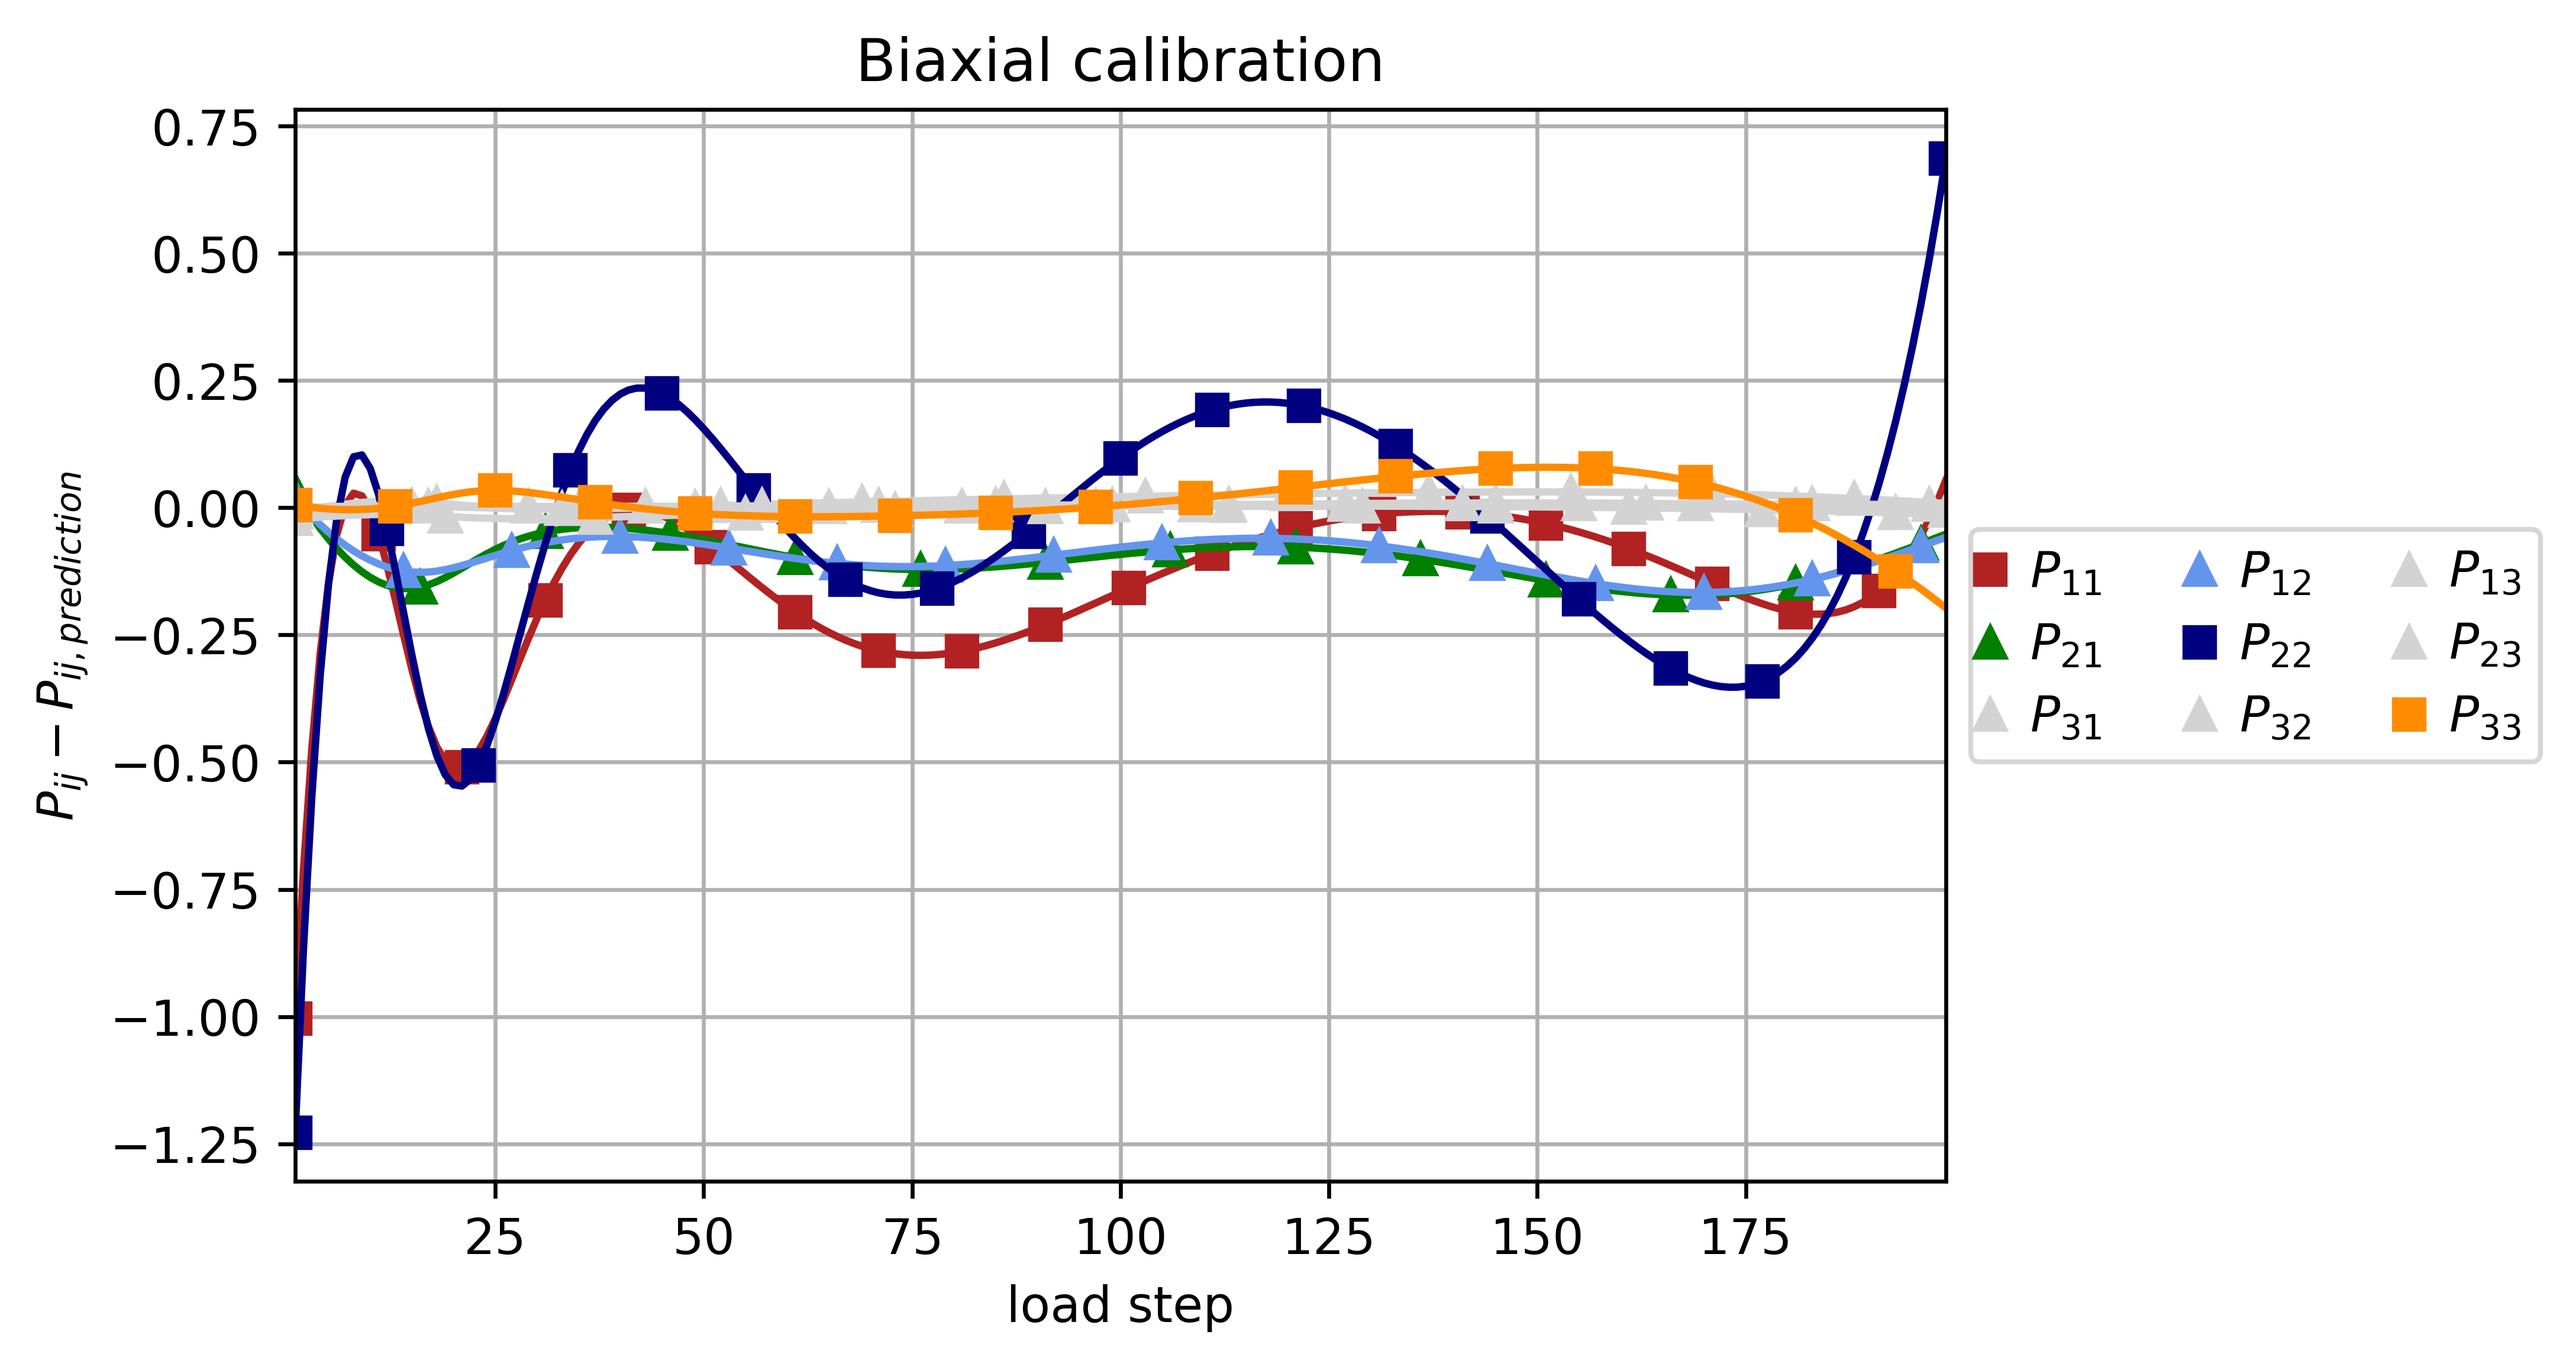
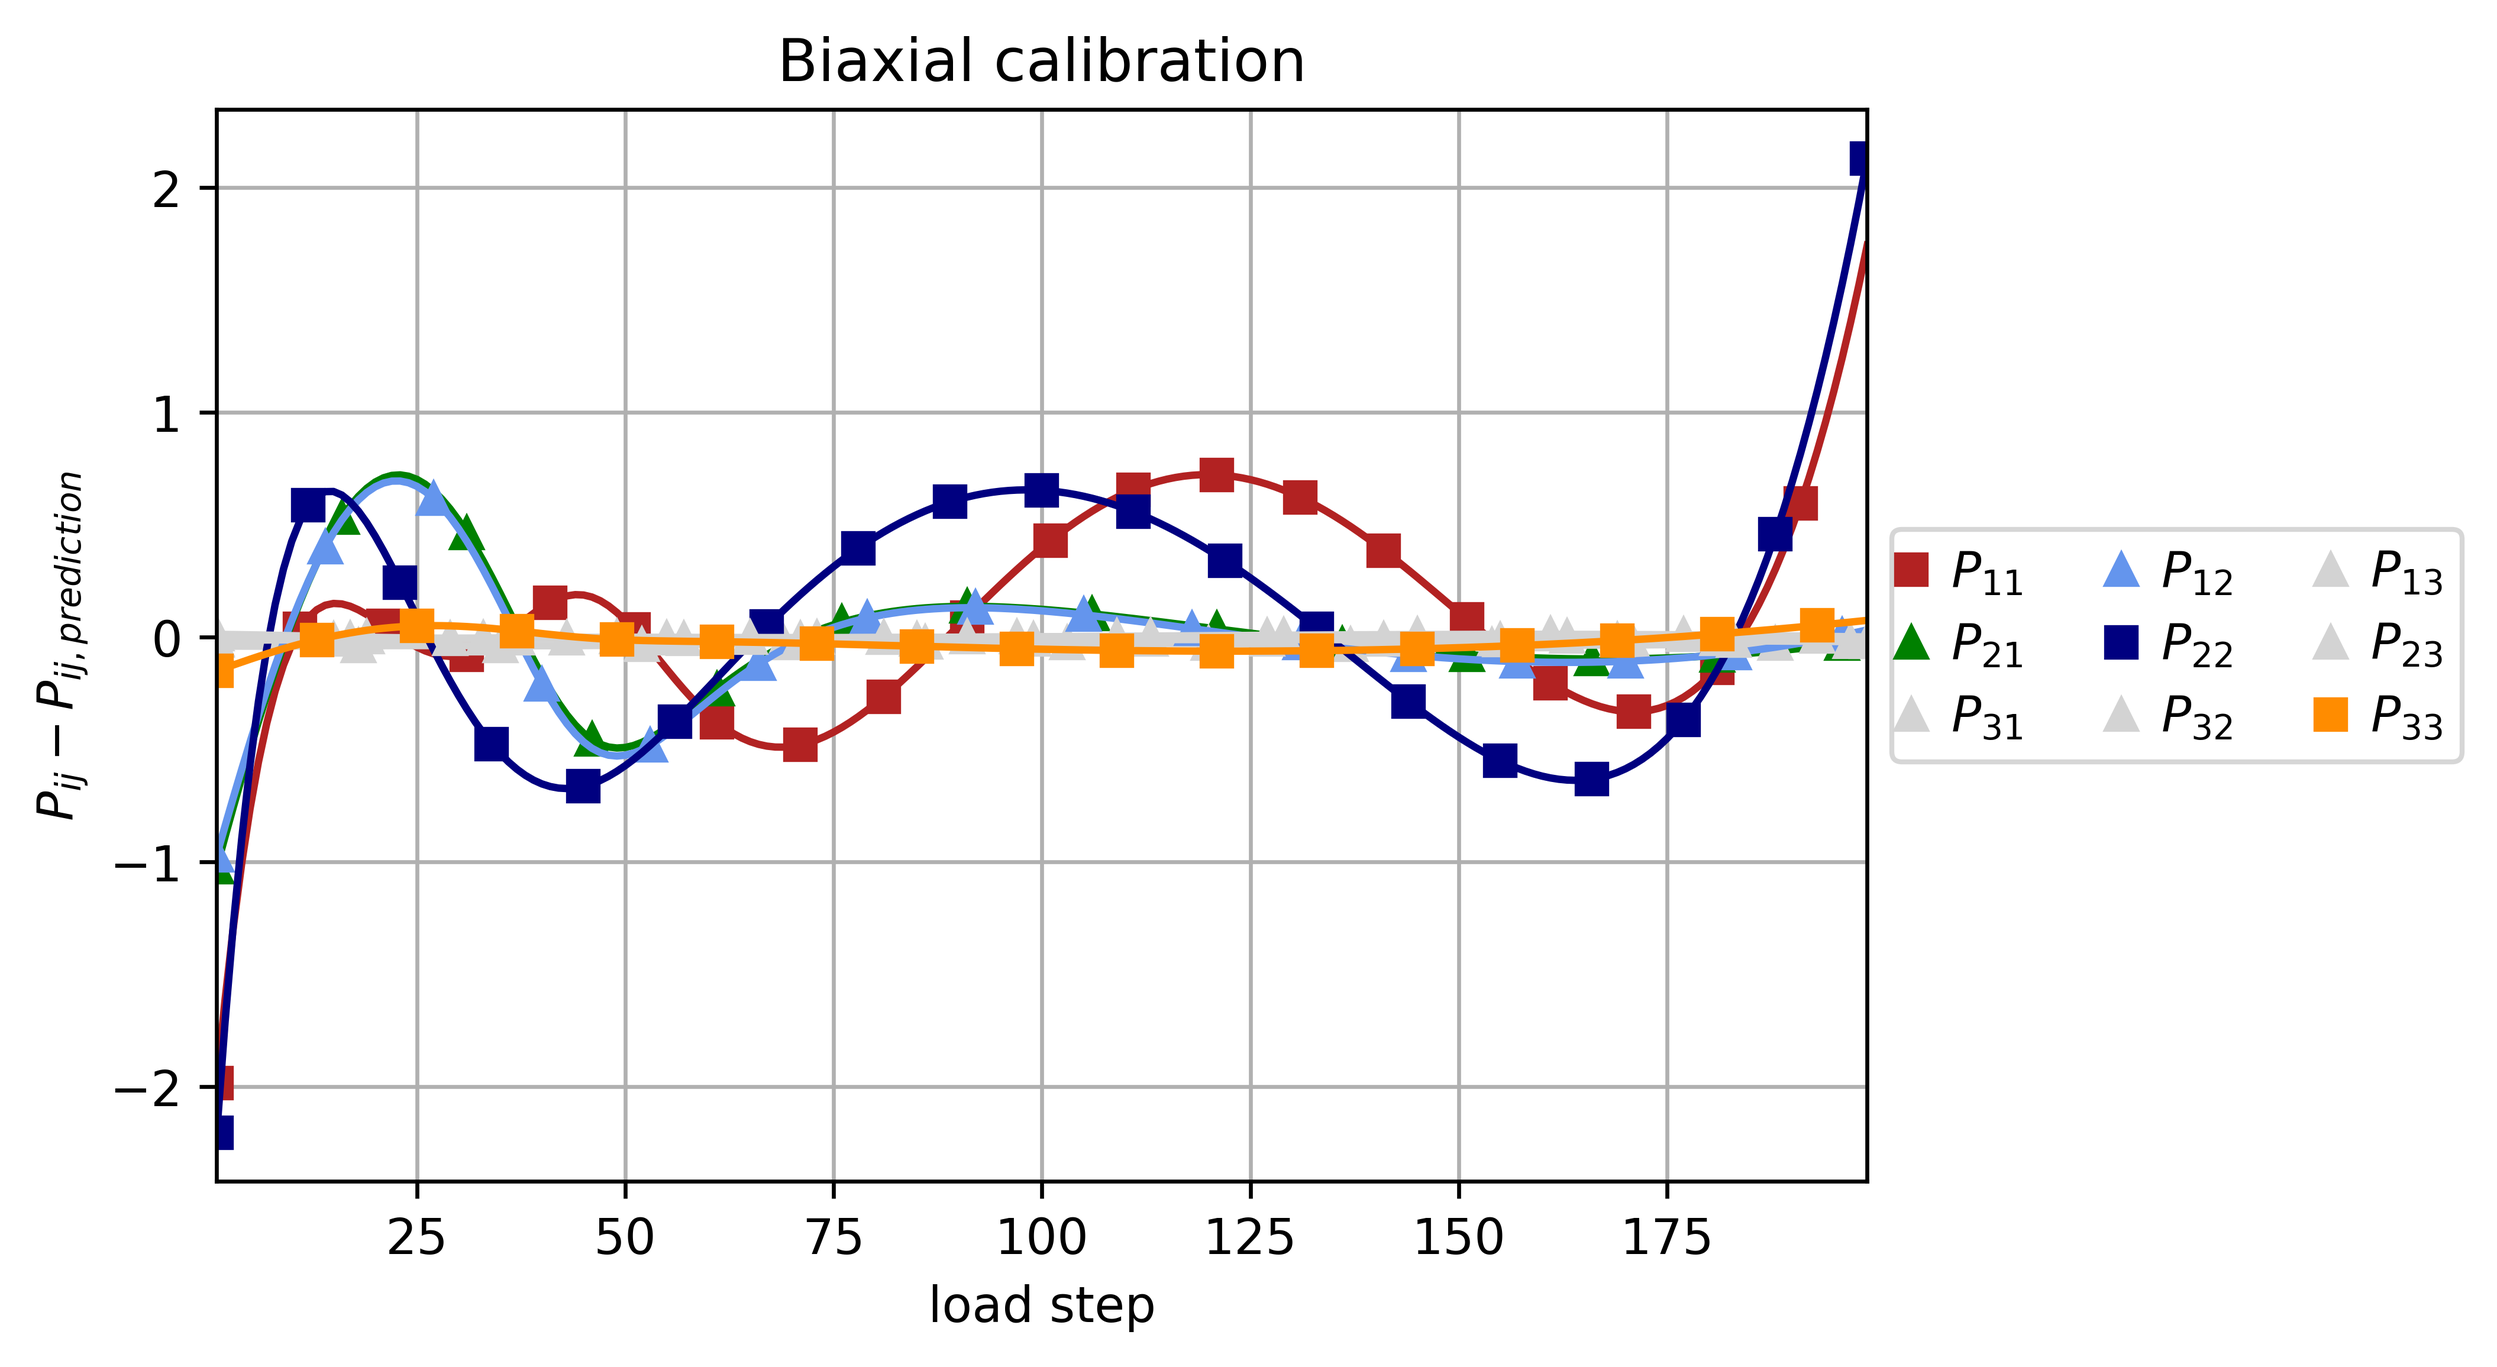
ICNN implementation, plot adjustments

diff --git a/Task_02/02_hyperelasticity_I_physics_augmented/plots.py b/Task_02/02_hyperelasticity_I_physics_augmented/plots.py
@@ -192,32 +192,32 @@ def plot_stress_tensor_prediction(P, P_pred, title, fname):
     
     fig = plt.figure(dpi=600)
     # imported data
-    plt.plot(x, P[:, 0, 0], color='firebrick',marker='s', markevery=10, label=r'$P_{11}$')
-    plt.plot(x, P[:, 0, 1], color='cornflowerblue', marker='s', markevery=13, label=r'$P_{12}$')
-    plt.plot(x, P[:, 0, 2], color='lightgrey', marker='s', markevery=14, label=r'$P_{13}$')
-    plt.plot(x, P[:, 1, 0], color='green', marker='s', markevery=15, label=r'$P_{21}$')
-    plt.plot(x, P[:, 1, 1], color='navy', marker='s', markevery=11, label=r'$P_{22}$')
-    plt.plot(x, P[:, 1, 2], color='lightgrey', marker='s', markevery=16, label=r'$P_{23}$')
-    plt.plot(x, P[:, 2, 0], color='lightgrey', marker='s', markevery=17, label=r'$P_{31}$')
-    plt.plot(x, P[:, 2, 1], color='lightgrey', marker='s', markevery=18, label=r'$P_{32}$')
-    plt.plot(x, P[:, 2, 2], color='darkorange', marker='s', markevery=12, label=r'$P_{33}$')
+    plt.plot(x, P[:, 0, 0], linestyle='None', color='firebrick',marker='s', markevery=10, label=r'$P_{11}$')
+    plt.plot(x, P[:, 1, 0], linestyle='None', color='green', marker='^', markevery=15, label=r'$P_{21}$')
+    plt.plot(x, P[:, 2, 0], linestyle='None', color='lightgrey', marker='^', markevery=17, label=r'$P_{31}$')
+    plt.plot(x, P[:, 0, 1], linestyle='None', color='cornflowerblue', marker='^', markevery=13, label=r'$P_{12}$')
+    plt.plot(x, P[:, 1, 1], linestyle='None', color='navy', marker='s', markevery=11, label=r'$P_{22}$')
+    plt.plot(x, P[:, 2, 1], linestyle='None', color='lightgrey', marker='^', markevery=18, label=r'$P_{32}$')
+    plt.plot(x, P[:, 0, 2], linestyle='None', color='lightgrey', marker='^', markevery=14, label=r'$P_{13}$')
+    plt.plot(x, P[:, 1, 2], linestyle='None', color='lightgrey', marker='^', markevery=16, label=r'$P_{23}$')
+    plt.plot(x, P[:, 2, 2], linestyle='None', color='darkorange', marker='s', markevery=12, label=r'$P_{33}$')
     
     # analytical data
-    plt.plot(x, P_pred[:, 0, 0], color='red', marker='^', markevery=10, label=r'$P_{11, prediction}$')
-    plt.plot(x, P_pred[:, 0, 1], color='lightsteelblue', marker='^', markevery=13, label=r'$P_{12, prediction}$')
-    plt.plot(x, P_pred[:, 0, 2], color='grey', marker='^', markevery=14, label=r'$P_{13, prediction}$')
-    plt.plot(x, P_pred[:, 1, 0], color='lightgreen', marker='^', markevery=15, label=r'$P_{21, prediction}$')
-    plt.plot(x, P_pred[:, 1, 1], color='lightblue', marker='^', markevery=11, label=r'$P_{22, prediction}$')
-    plt.plot(x, P_pred[:, 1, 2], color='grey', marker='^', markevery=16, label=r'$P_{23, prediction}$')
-    plt.plot(x, P_pred[:, 2, 0], color='grey', marker='^', markevery=17, label=r'$P_{31, prediction}$')
-    plt.plot(x, P_pred[:, 2, 1], color='grey', marker='^', markevery=18, label=r'$P_{32, prediction}$')
-    plt.plot(x, P_pred[:, 2, 2], color='orange', marker='^', markevery=12, label=r'$P_{33, prediction}$')
+    plt.plot(x, P_pred[:, 0, 0], color='firebrick')
+    plt.plot(x, P_pred[:, 1, 0], color='green')
+    plt.plot(x, P_pred[:, 2, 0], color='lightgrey')
+    plt.plot(x, P_pred[:, 0, 1], color='cornflowerblue')
+    plt.plot(x, P_pred[:, 1, 1], color='navy')
+    plt.plot(x, P_pred[:, 2, 1], color='lightgrey')
+    plt.plot(x, P_pred[:, 0, 2], color='lightgrey')
+    plt.plot(x, P_pred[:, 1, 2], color='lightgrey')
+    plt.plot(x, P_pred[:, 2, 2], color='darkorange')
     plt.title(title)
     plt.xlabel('load step')
     plt.ylabel(r'$P_{ij}$')
     plt.xlim(np.min(x), np.max(x))
     plt.grid()
-    plt.legend(handlelength=0, loc='center left', bbox_to_anchor=(1, 0.5), ncol=2)
+    plt.legend(handlelength=0, loc='center left', bbox_to_anchor=(1, 0.5), ncol=3)
     fig.savefig('images/P_pred_{}.png'.format(fname), dpi=fig.dpi, bbox_inches='tight')
     plt.show()
     
@@ -252,13 +252,13 @@ def plot_potential_prediction(W, W_pred, title, fname):
     x = np.arange(W.shape[0]) + 1
     # deformation gradient
     fig = plt.figure(dpi=600)
-    plt.plot(x, W, color='firebrick', marker='s', markevery=10, label=r'$W$')
-    plt.plot(x, W_pred, color='mediumblue', marker='^', markevery=10, label=r'$W$ prediction')
+    plt.plot(x, W, color='firebrick', linestyle='None', marker='s', markevery=10, label='data')
+    plt.plot(x, W_pred, color='firebrick', label='prediction')
     plt.title(title)
     plt.xlabel('load step')
     plt.ylabel(r'$W$')
     plt.xlim(np.min(x), np.max(x))
     plt.grid()
-    plt.legend(handlelength=0, loc='center left', bbox_to_anchor=(1, 0.5))
+    plt.legend(loc='center left', bbox_to_anchor=(1, 0.5))
     fig.savefig('images/W_prediction_{}.png'.format(fname), dpi=fig.dpi, bbox_inches='tight')
     plt.show()

diff --git a/Task_02/02_hyperelasticity_I_physics_augmented/data.py b/Task_02/02_hyperelasticity_I_physics_augmented/data.py
@@ -16,6 +16,8 @@ import numpy as np
 import tensorflow as tf
 from tensorflow.keras import layers
 
+# user-defined models
+import models as lm
 
 # %%
 '''
@@ -141,29 +143,34 @@ class P(layers.Layer):
 
 # additional functions called in layer
 def W(F):
-    I1, J, I4, I5 = compute_invariants(F)
-    return compute_potential(I1, J, I4, I5)
+    I = compute_invariants(F)
+    return compute_potential(I[:,0], I[:,1], I[:,3], I[:,4])
 
 def compute_potential(I1, J, I4, I5):
     W = 8 * I1 + 10 * J**2 - 56 * tf.math.log(J) \
         + 0.25 * (I4 ** 2 + I5 ** 2) - 44
     return W
 
+# def compute_invariants(F):
+#     # transversely isotropic structural tensor
+#     G_ti = np.array([[4, 0, 0],
+#                   [0, 0.5, 0],
+#                   [0, 0, 0.5]])
+#     # transpose F and compute right Cauchy-Green tensor
+#     C = tf.einsum('ikj,ikl->ijl',F,F)
+#     # compute invariants
+#     I1 = tf.linalg.trace(C)
+#     J = tf.linalg.det(F)
+#     I4 = tf.linalg.trace(C @ G_ti)
+    
+#     C_inv = tf.linalg.inv(C)
+#     I3 = tf.linalg.det(C)
+#     Cof_C = tf.constant(np.array([I3i * C_inv[i,:,:] for i,I3i in enumerate(I3)]))
+#     I5 = tf.linalg.trace(Cof_C @ G_ti)
+    
+#     return I1, J, I4, I5
+
 def compute_invariants(F):
-    # transversely isotropic structural tensor
-    G_ti = np.array([[4, 0, 0],
-                  [0, 0.5, 0],
-                  [0, 0, 0.5]])
-    # transpose F and compute right Cauchy-Green tensor
-    C = tf.einsum('ikj,ikl->ijl',F,F)
-    # compute invariants
-    I1 = tf.linalg.trace(C)
-    J = tf.linalg.det(F)
-    I4 = tf.linalg.trace(C @ G_ti)
-    
-    C_inv = tf.linalg.inv(C)
-    I3 = tf.linalg.det(C)
-    Cof_C = tf.constant(np.array([I3i * C_inv[i,:,:] for i,I3i in enumerate(I3)]))
-    I5 = tf.linalg.trace(Cof_C @ G_ti)
-    
-    return I1, J, I4, I5
+    C = lm.RightCauchyGreenLayer()(F)
+    I = lm.InvariantLayer()(F, C)
+    return I

diff --git a/Task_02/02_hyperelasticity_I_physics_augmented/models.py b/Task_02/02_hyperelasticity_I_physics_augmented/models.py
@@ -48,7 +48,7 @@ class PotentialLayer(layers.Layer):
         self.lC = RightCauchyGreenLayer()
         self.lI = InvariantLayer()
         # define neural network
-        self.lNN = FeedForwardLayer()
+        self.lNN = InputConvexLayer()
     
     def __call__(self, x):
         y = self.lC(x)
@@ -89,11 +89,11 @@ class InputConvexLayer(layers.Layer):
     def __init__(self):
         super().__init__()
         # define hidden layers with activation functions
-        self.ls = [layers.Dense(4, 'softplus')]
-        self.ls += [layers.Dense(4, 'softplus', kernel_constraint=non_neg())]
-        self.ls += [layers.Dense(4, 'softplus', kernel_constraint=non_neg())]
+        self.ls = [layers.Dense(8, 'softplus', kernel_constraint=non_neg())]
+        self.ls += [layers.Dense(8, 'softplus', kernel_constraint=non_neg())]
+        self.ls += [layers.Dense(8, 'softplus', kernel_constraint=non_neg())]
         # scalar-valued output function
-        self.ls += [layers.Dense(9, kernel_constraint=non_neg())]
+        self.ls += [layers.Dense(1, kernel_constraint=non_neg())]
         
     def call(self, x):    
         #  create weights by calling on input
@@ -132,12 +132,10 @@ class InvariantLayer(layers.Layer):
         I3 = tf.linalg.det(C)
         #Cof_C = tf.constant(np.array([I3i * C_inv[i,:,:] for i,I3i in enumerate(I3)]))
         #Cof_C = tf.tensordot(I3, C_inv, axis=0)
-        Cof_C = C_inv
         try:
-            for i, I3i in I3:
-                Cof_C[i,:,:] = C_inv[i,:,:] * I3i
+            Cof_C = tf.constant(np.array([I3i * C_inv[i,:,:] for i,I3i in enumerate(I3)]))
         except:
-            pass
+            Cof_C = C_inv
         #Cof_C = I3 * C_inv
         #Cof_C = tf.multiply(C_inv, I3)
         I5 = tf.linalg.trace(Cof_C @ G_ti)

diff --git a/Task_02/02_hyperelasticity_I/main_naive.py b/Task_02/02_hyperelasticity_I/main_naive.py
@@ -60,8 +60,8 @@ Preprocessing
 '''
 
 # apply load weighting strategy
-sw = ld.get_sample_weights(Ps, batch_sizes)
-#sw = np.ones(np.sum(batch_sizes))
+#sw = ld.get_sample_weights(Ps, batch_sizes)
+sw = np.ones(np.sum(batch_sizes))
   
 # reshape inputs
 xs, ys = ld.reshape_input(Cs, Ps)
@@ -173,7 +173,12 @@ for i, path in enumerate(paths):
     mse, mae = compute_metrics(P[:, 2, 2], P_pred[:, 2, 2])
     print('''P_33:\tMSE = {}, \tMAE = {}\n'''.format(mse, mae))   
 
-
+# check normalization criterion
+xs = np.array([[1, 0, 0, 1, 0, 1],
+              [1, 0, 0, 1, 0, 1]])
+ys_pred, dys_pred = model.predict(xs)
+print(ys_pred)
+print(dys_pred)
 
 # %% 
 """

diff --git a/Task_02/02_hyperelasticity_I_physics_augmented/main_physics_augmented.py b/Task_02/02_hyperelasticity_I_physics_augmented/main_physics_augmented.py
@@ -35,7 +35,7 @@ Load model
 
 """
 lw = [1, 1]     # output_1 = function value, output_2 = gradient
-model = lm.main(r_type='FeedForward', loss_weights=lw)
+model = lm.main(r_type='InputConvex', loss_weights=lw)
 model.summary()
 
 # %%   
@@ -142,7 +142,7 @@ for i, path in enumerate(paths):
     
     # predict using the trained model
     ys_pred, dys_pred = model.predict(xs)
-    P = xs
+    P = dys
     P_pred = dys_pred
 
     # reshape results from Voigt vector to matrix

diff --git a/Task_02/02_hyperelasticity_I_physics_augmented/evaluation.py b/Task_02/02_hyperelasticity_I_physics_augmented/evaluation.py
@@ -45,7 +45,8 @@ I5 = arr[:, 3:]
 invariants = [I1, J, I4, I5]
 
 # compute analytical invariants
-analytical_invariants = ld.compute_invariants(F)
+I = ld.compute_invariants(F)
+analytical_invariants = [I[:,0], I[:,1], I[:,3], I[:,4]]
 
 # evaluate invariants
 plot_invariants(invariants, analytical_invariants)
